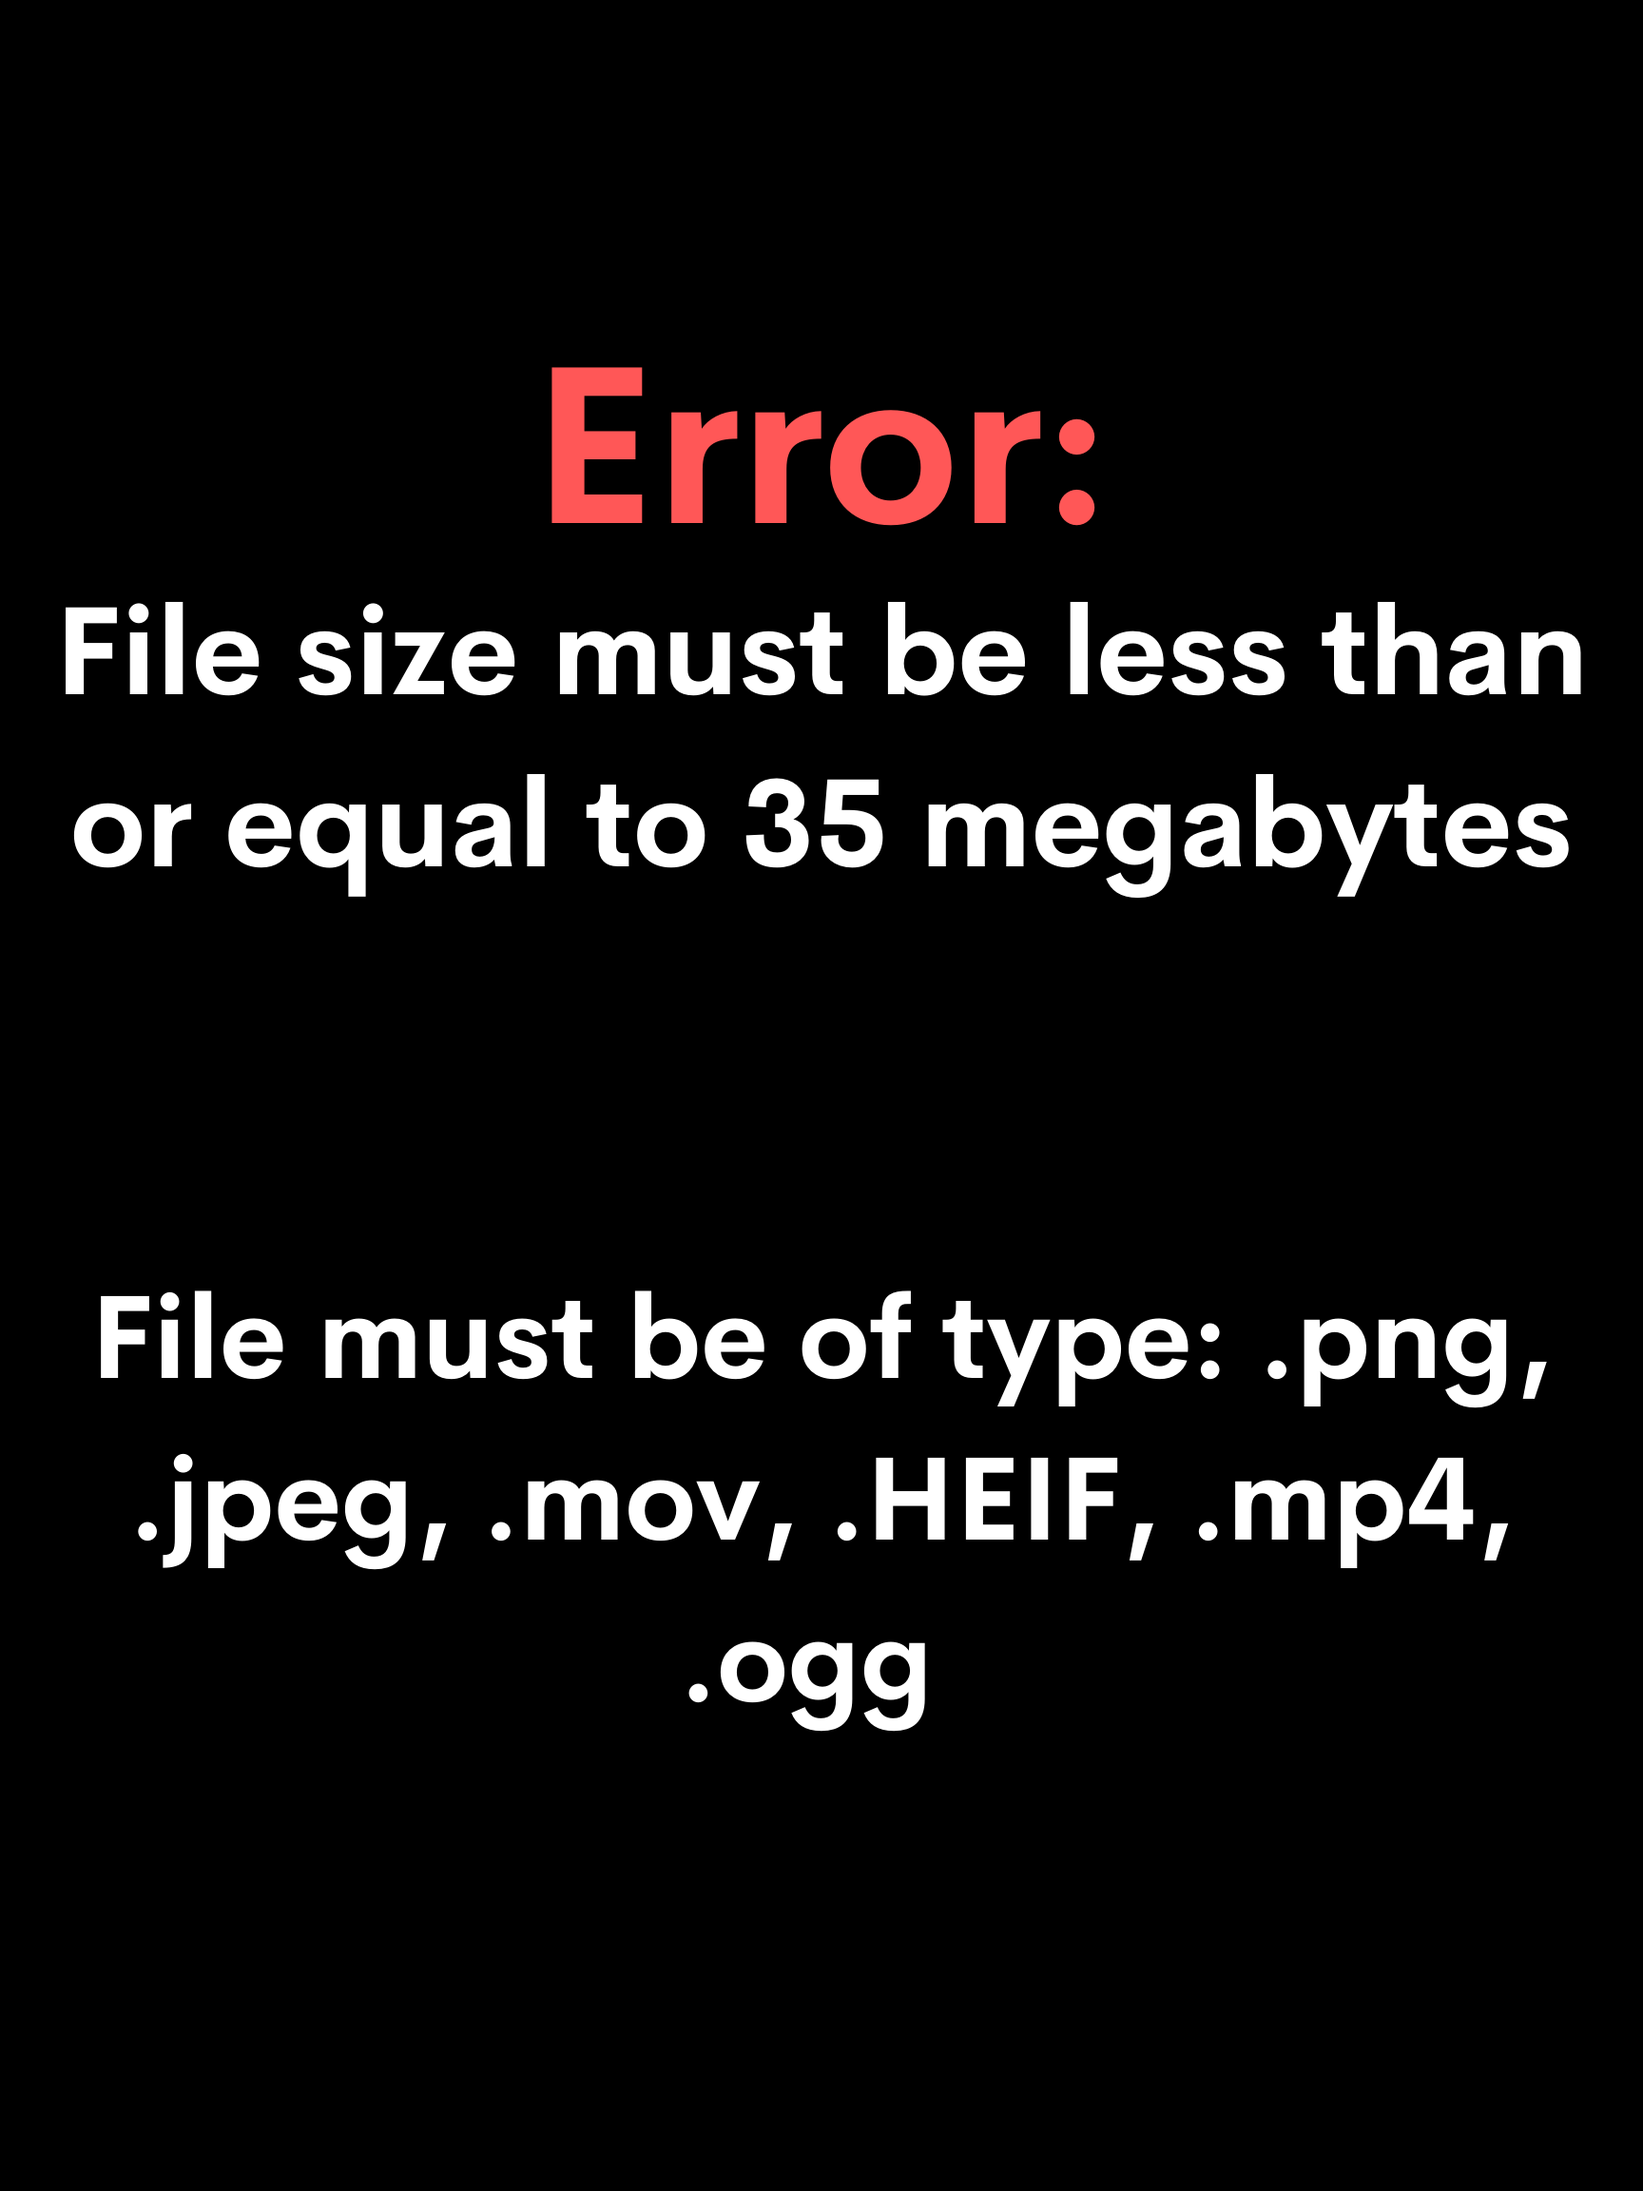
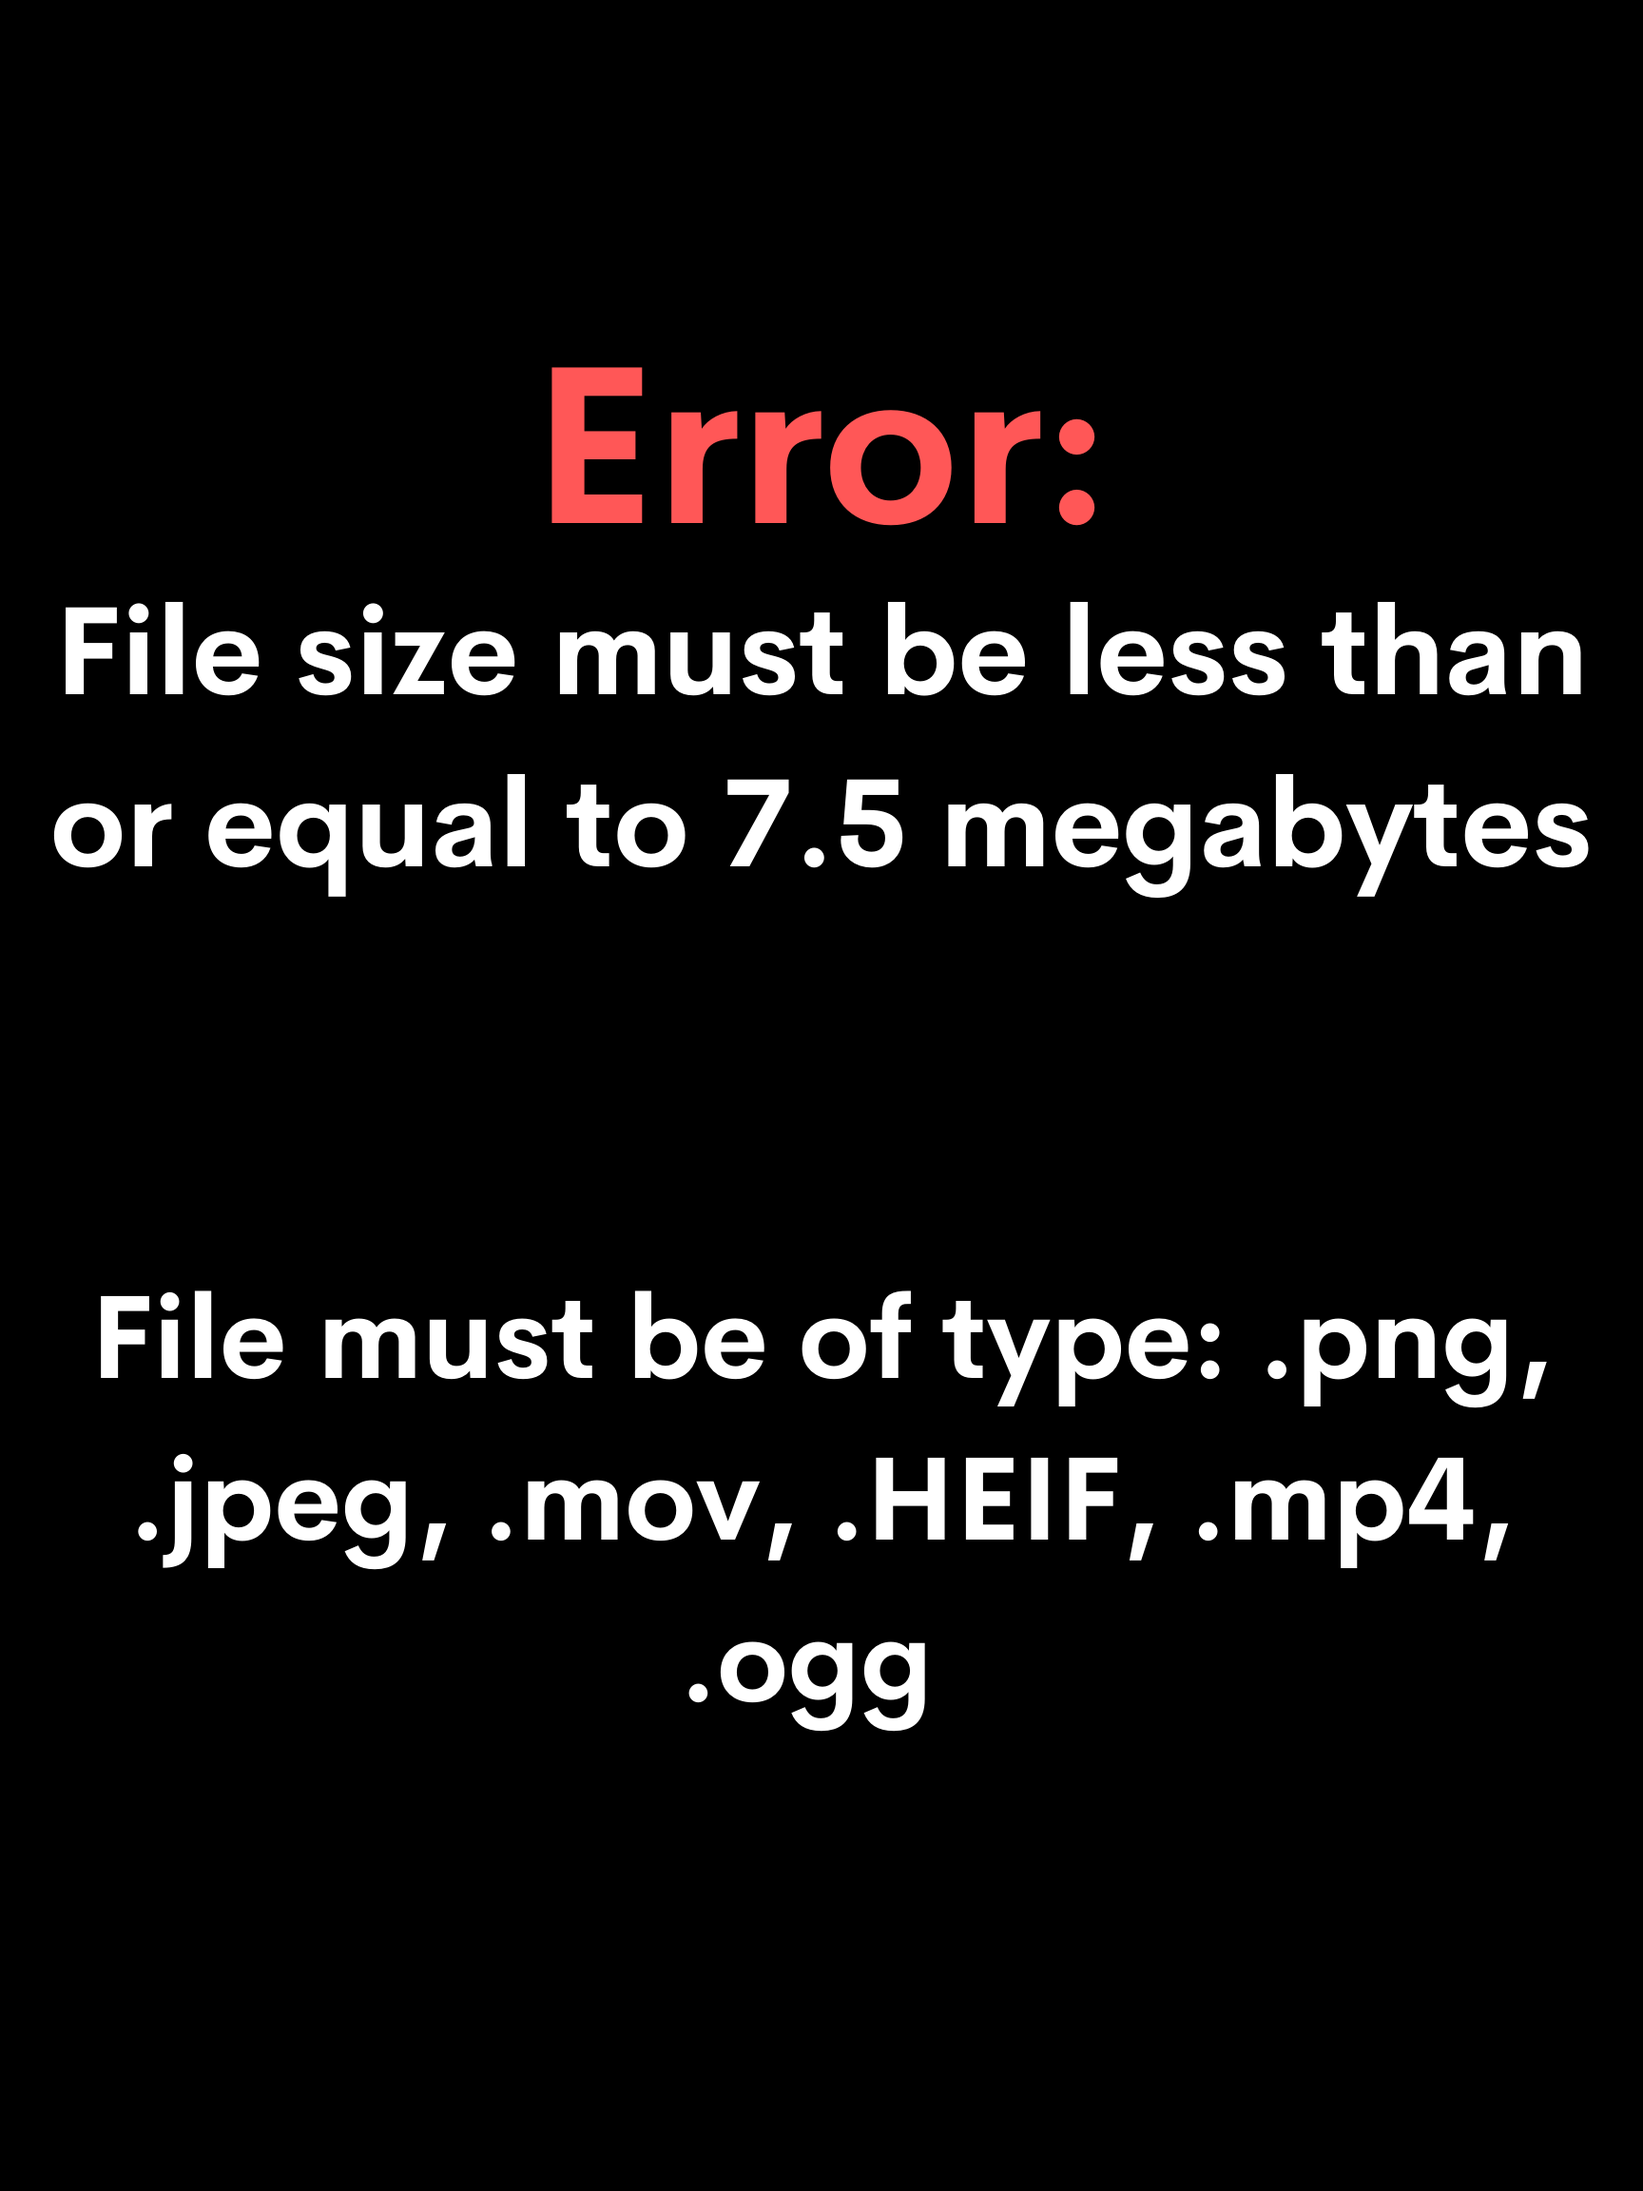
changes made

Changed region(s): [[0.0312, 0.3438, 0.9688, 0.4062]]

diff --git a/src/dtc_assets/src/Components/Fields/FileUpload.jsx b/src/dtc_assets/src/Components/Fields/FileUpload.jsx
@@ -5,8 +5,7 @@ import { deviceType } from '../../Utils';
 import { DEVICE_TYPES } from '../../Constants';
 import { round2Decimals } from '../../Utils';
 
-const MAX_NUMBER_OF_BYTES = 35000000;
-const WIGGLE_ROOM =500000;
+const MAX_NUMBER_OF_BYTES = 7500000;
 const MEGABYTES = 1000000;
 
 const forbiddenFileTypes = [
@@ -56,18 +55,16 @@ const FileUpload = (props) => {
 
     const handleUpload = async () => {
         const file = inputRef.current.files[0] || value;
+        setFileType(file.type);
         setFileSize(file.size);
-        if(
-            file.size > MAX_NUMBER_OF_BYTES + WIGGLE_ROOM || 
-            forbiddenFileTypes.includes(file.type)
-            ){
+        if( file.size > MAX_NUMBER_OF_BYTES || forbiddenFileTypes.includes(file.type)){
             dispatch({
                 payload: true,
                 actionType: toggleErrorAction,
                 index: index
             });
+            document.getElementById('uploadedImaged').value = '';
         } else {
-            setFileType(file.type);
             setFileSrc(await displayUploadedFile(file));
             setValue(file);
             dispatch({
@@ -82,8 +79,9 @@ const FileUpload = (props) => {
             })
             if(!!setChangesWereMade){
                 setChangesWereMade(true);
-            }
+            } 
         }
+        
     };
 
     return(
@@ -99,7 +97,7 @@ const FileUpload = (props) => {
                             autoplay="false" 
                         />
                         <div className={'errorMsg'}>
-                            Your file is {round2Decimals(fileSize / MEGABYTES)} MegaBytes. <br/>
+                            Your file is {round2Decimals(fileSize / MEGABYTES)} MegaBytes after compression and upload. <br/>
                             Please reduce file by {round2Decimals((fileSize - MAX_NUMBER_OF_BYTES) / MEGABYTES)} MegaBytes.
                         </div>
                     </>

diff --git a/src/dtc_assets/src/Components/JournalPage.jsx b/src/dtc_assets/src/Components/JournalPage.jsx
@@ -366,11 +366,7 @@ const JournalPage = (props) => {
                                 className={'button'} 
                                 type="submit" 
                                 onClick={handleSubmit} 
-                                disabled={
-                                    isDisabled || 
-                                    journalPageData.file2MetaData.hasError ||
-                                    journalPageData.file1MetaData.hasError
-                                }
+                                disabled={isDisabled}
                             > 
                                 Submit 
                             </button>

diff --git a/src/dtc_assets/src/Components/Fields/FileUpload.scss b/src/dtc_assets/src/Components/Fields/FileUpload.scss
@@ -37,8 +37,8 @@
         }
     }
     .imageInputButton{
-        padding-left: 37%;
-        width: 5rem;
+        padding-left: 108px;
+        width: 205px;
         margin-bottom: 1rem;
     }
 }
